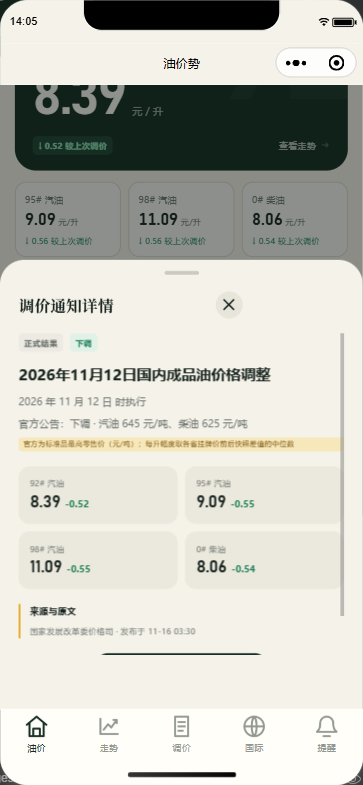
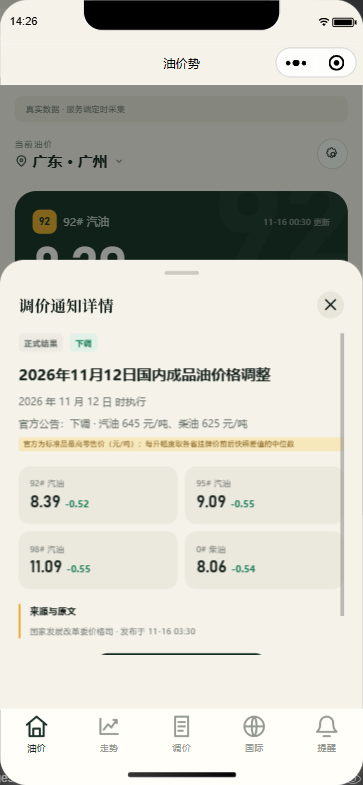
fix: 弹层关闭按钮贴到右上角
小程序 button 的 UA 默认样式带 margin-left/right: auto，放进 flex 行后
自动外边距会吸收剩余空间 —— 作者写 margin: 0 压不住。

- 实测关闭按钮停在屏幕 62% 处（距右缘 266rpx），现在贴到内容区右缘
  （距右缘 37rpx，与面板 40rpx 内边距对齐）
- .sheet-head-title 加 flex: 1 吃掉剩余空间，space-between 才有意义
- .sheet-close 的 margin 加 !important 钉死
- 顺带补 .sheet-close::after 边框复位：app.wxss 的 button::after 复位
  在组件里因样式隔离不生效
- AGENTS.md 更正原先写错的说明（原来写「margin: 0 就能压住」）

diff --git a/AGENTS.md b/AGENTS.md
@@ -110,7 +110,7 @@ node scripts/verify-in-devtools.js   # 逐页截图 + 运行时异常捕获（2.
 | 位置隐私协议没弹 | `wx.getLocation` 报隐私未授权 | 先调 `wx.requirePrivacyAuthorize()`，用户同意后再取位置 |
 | `wx.getLocation` 拿 wgs84 坐标 | 与省界数据差 300~600 米，江苏/河北这种贴着的省会判错 | 固定传 `type: 'gcj02'`，服务端省界数据也是 GCJ-02，两边不换算 |
 | 定位失败弹错误提示 | 用户被反复打扰，而且定位本来就是可选增强 | 失败一律静默返回 null，只在用户明确拒绝过权限时给一个「开启定位」入口 |
-| `<button>` 在 flex 容器里被撑成宽条 | 小程序 button 的 UA 默认样式带 `margin: auto`，放进 flex 行里就被自动外边距顶开 | 钉死 `flex: 0 0 <宽>` 和 `margin: 0`，别只写 `width` |
+| `<button>` 在 flex 容器里被撑成宽条 / 停在行中间 | 小程序 button 的 UA 默认样式带 `margin-left/right: auto`，放进 flex 行后自动外边距会**吸收剩余空间**（`space-between` 的自由空间被它平分吃掉）—— 作者写 `margin: 0` **压不住**。实测弹层关闭按钮停在屏幕 62% 处，不贴右 | `margin: 0 !important` 钉死外边距 + `flex: 0 0 <宽>`；再让同行的标题 `flex: 1` 把剩余空间吃掉，`space-between` 才有意义（见 `styles/components.wxss` 的 `.sheet-head-title`）。**别只写 `width`** |
 | 前端读 `latestNotice`、后端只给 `notice` | 字段契约漂一个名字，首页通知在真实后端下整块失真（标题空白、金额 0.00、日期 `--`），而 `expectKeys` 不含通知字段所以照样判 live | 两个名字都给（`notice` 与 `latestNotice` 同源），前端读 `payload.latestNotice \|\| payload.notice`；`scripts/verify-contract.js` 把后端真实响应喂给页面的 `applyXxx()` 钉住 |
 | `Number(null) === 0`，空价格会显示成 `0.00` | 后端没给价格时，前端渲染「92# 0.00 元/升」—— 0.00 是真实价格，`--` 才是没有数据 | `fmt.price(null/undefined/'')` 统一返回 `'--'`；要继续算数的用 `fmt.priceValue()`（返回 null，区别于 0） |
 | 「空数据」不能整包回落演示源 | 通知列表为空是合法的（后端确实还没有正式公告），回落演示会凭空造出假通知；而行情曲线为空是真的没数据 | `utils/api.js` 分开「字段存在」与「字段有值」两套校验：通知只查存在，行情/价格要查非空 |
